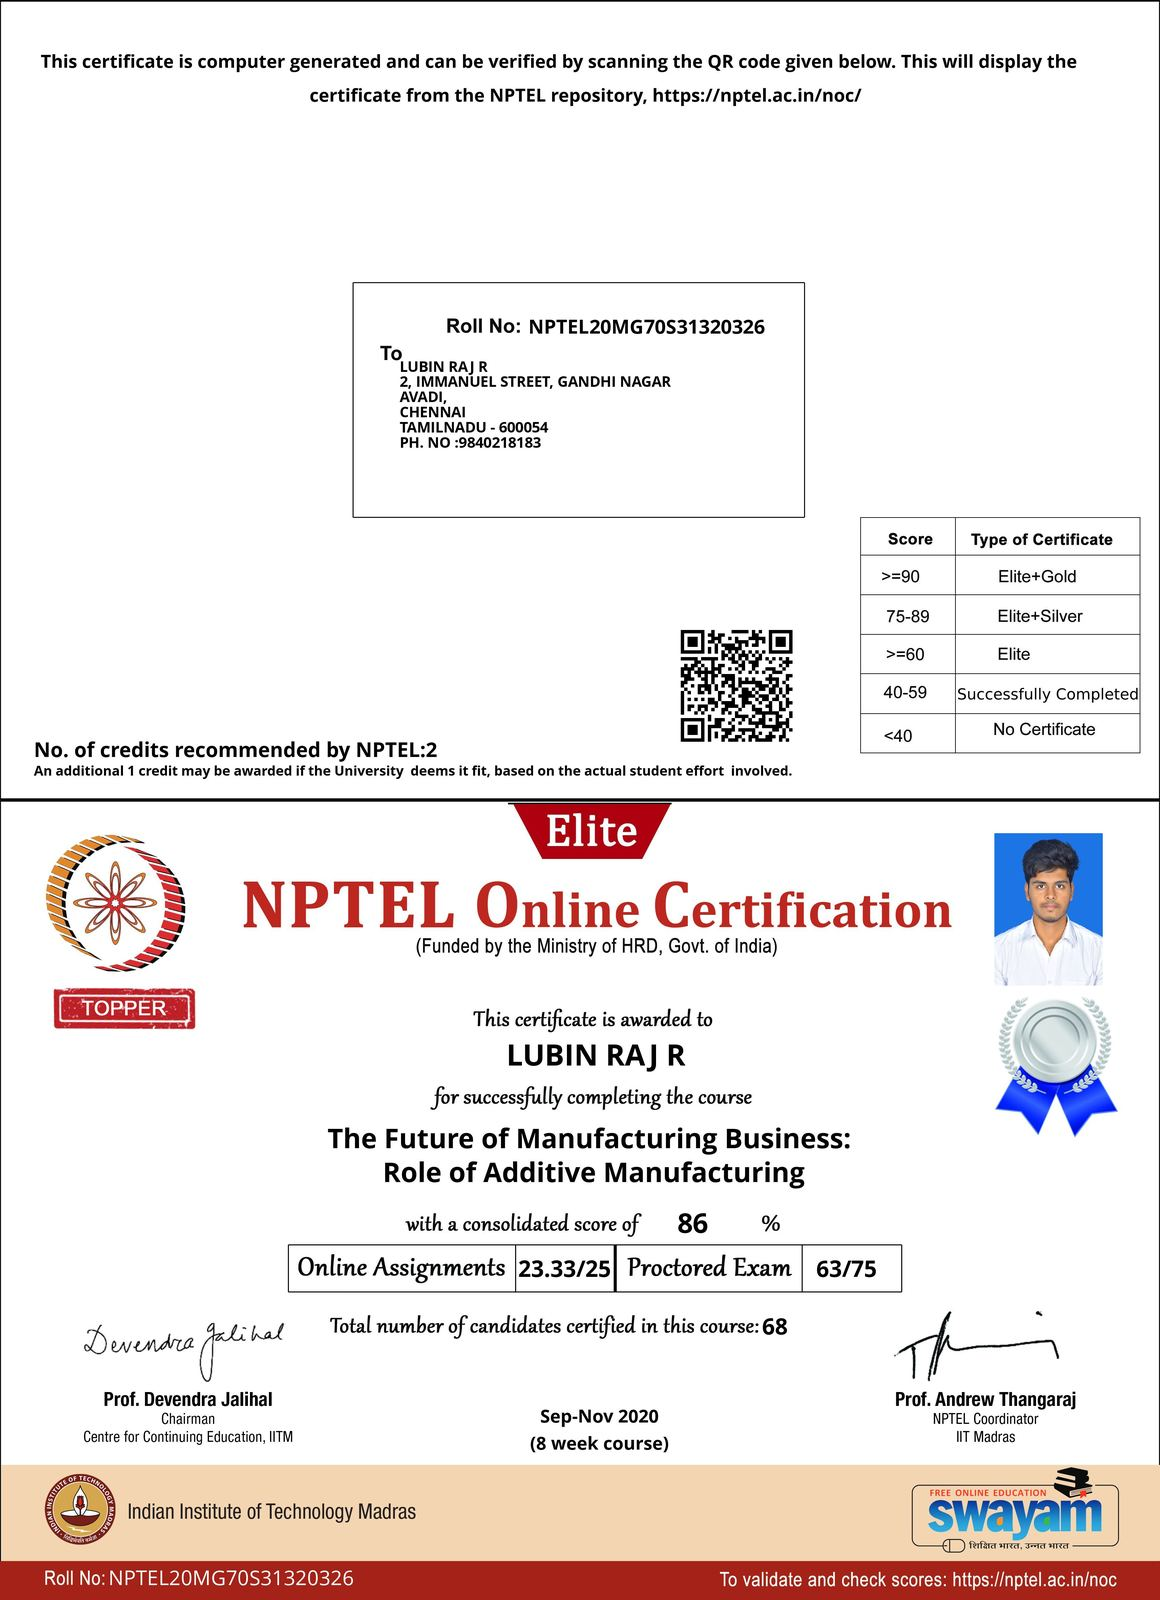
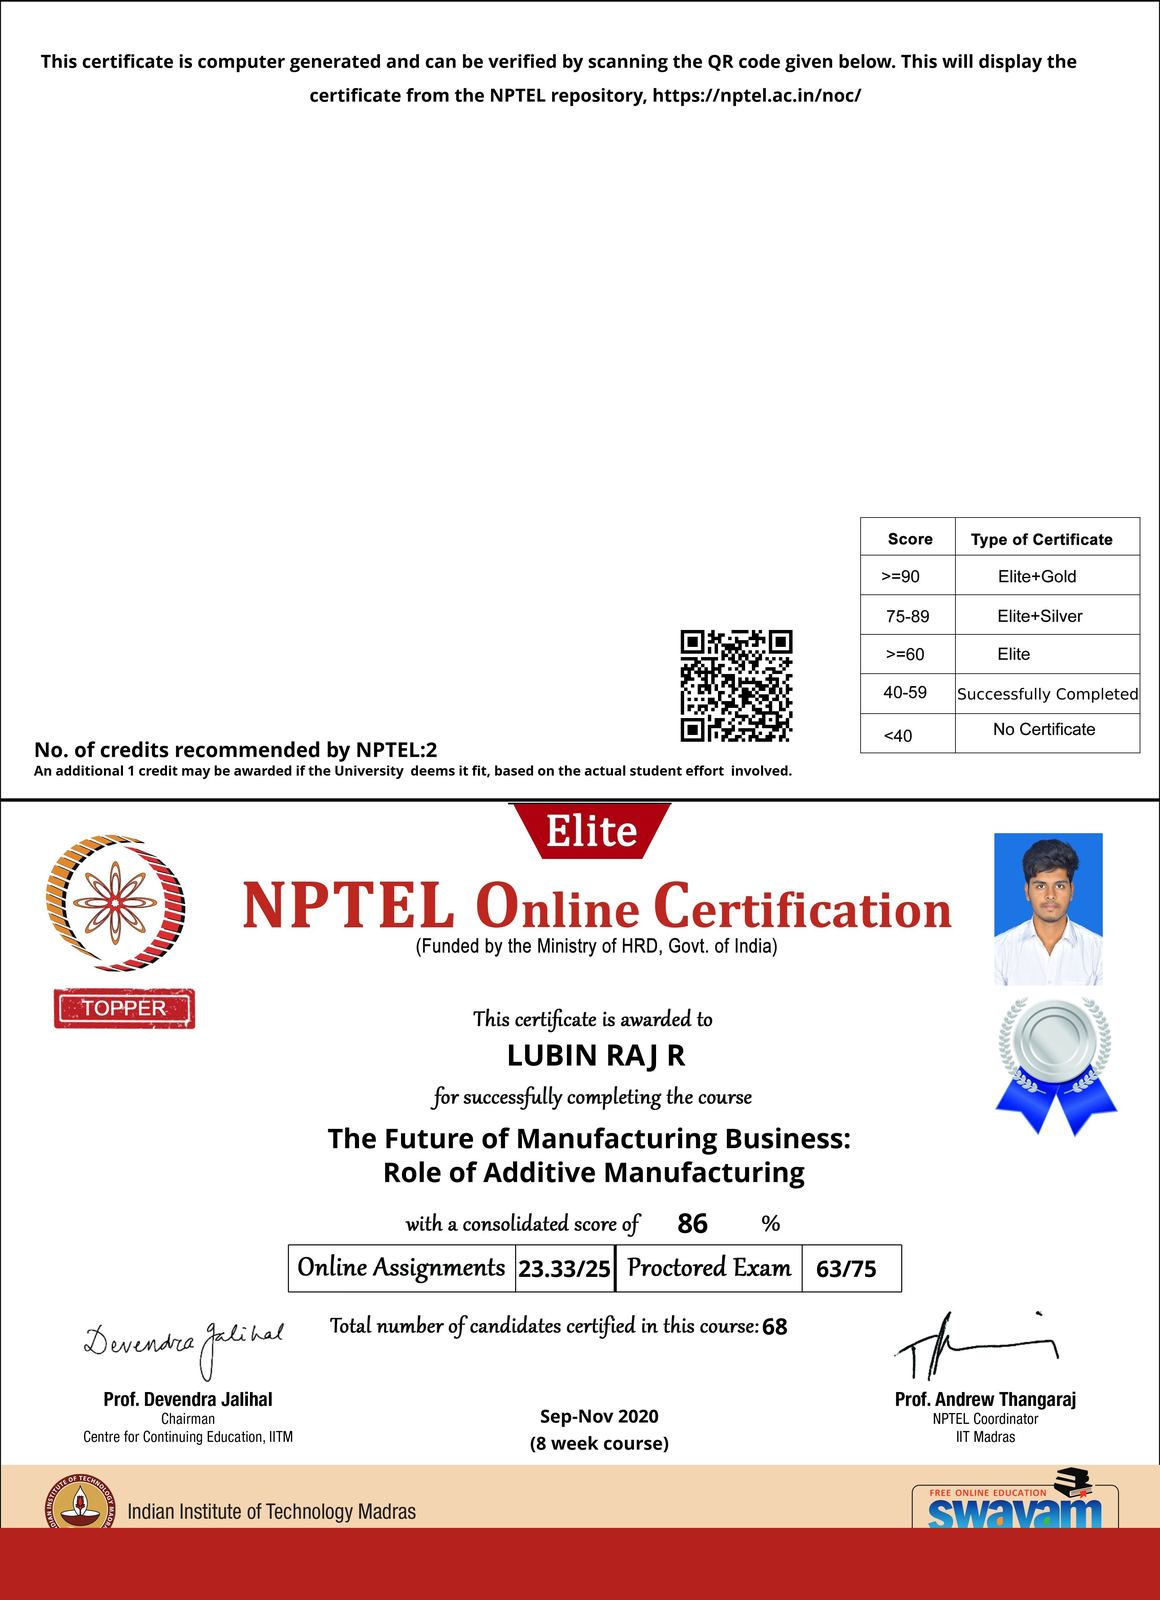
redact NPTEL personal details and classify certificates

Changed region(s): [[0.0, 0.9375, 1.0, 1.0], [0.3414, 0.1875, 0.6517, 0.2812]]

diff --git a/assets/site.js b/assets/site.js
@@ -45,7 +45,7 @@ if (certificateGrid) {
     count.textContent = `${visible.length} of ${certificates.length} certificates`;
     certificateGrid.innerHTML = visible.length ? visible.map((certificate) => {
       const title = titleFor(certificate);
-      const note = 'Open certificate';
+      const note = certificate.redacted ? 'Personal details redacted' : 'Open certificate';
       return `<article class="certificate-card"><a href="${escapeHtml(certificate.file)}" target="_blank" rel="noreferrer"><img loading="lazy" src="${escapeHtml(certificate.file)}" alt="${escapeHtml(title)}"></a><div class="certificate-card-meta"><p class="certificate-card-category">${escapeHtml(certificate.category)}</p><p class="certificate-card-title">${escapeHtml(title)}</p><p class="certificate-card-note">${escapeHtml(note)} <span aria-hidden="true">↗</span></p></div></article>`;
     }).join('') : '<p class="certificate-empty">No certificates match this filter.</p>';
   };
@@ -57,7 +57,8 @@ if (certificateGrid) {
     })
     .then((data) => {
       certificates = data;
-      [...new Set(certificates.map((certificate) => certificate.category))].forEach((category) => {
+      const categoryOrder = ['Highlights', 'NPTEL', 'Internships', 'Courses', 'Challenges & contests', 'Skill-Lync', 'Skyy Rider', 'Other'];
+      categoryOrder.filter((category) => certificates.some((certificate) => certificate.category === category)).forEach((category) => {
         const option = document.createElement('option');
         option.value = category;
         option.textContent = category;
